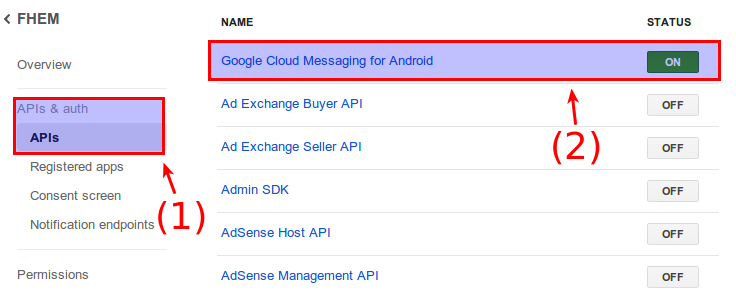
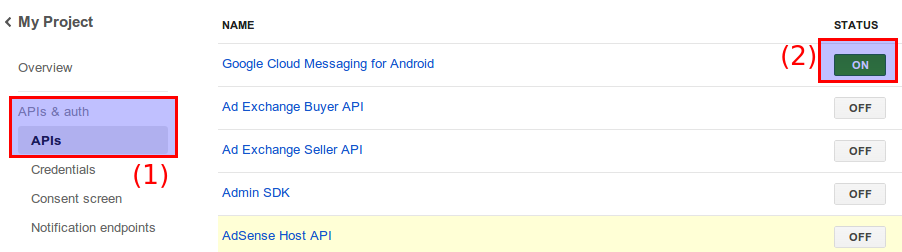
reflect new GCM api console

diff --git a/installation.html b/installation.html
@@ -62,7 +62,7 @@ weight: 2
   
   <p>Google Cloud Messaging (GCM) enables you to send push notifications to Android handsets. This enables you to send updates in nearly realtime to andFHEM (from 2.4.2 onwards).</p>
 
-  <p>Installation Steps:
+  <p><b>Installation Steps:</b>
     <ul>
       <li>Download and install the <a href="http://svn.code.sf.net/p/fhem/code/trunk/fhem/contrib/98_gcmsend.pm">98_gcmsend.pm</a> module for FHEM (copy the file to the FHEM directory, make sure that your Perl installation meets all the dependencies. FHEM will tell you if it can load the module, especially when issuing <span class="code">reload 98_gcmsend</span>. You can also copy the file from the <span class="code">contrib</span> directory. If doing so, don't forget to modify the file permissions of <span class="code">98_gcmsend.pm</span> (the user running FHEM has to be able to read the file, so change the owner using <span class="code">chown fhem 98_gcmsend.pm</span> or give all users the permission to read the file using <span class="code">chmod a+r 98_gcmsend.pm</span>) <br/>
   The module depends on two perl modules, which have to be installed to <i>fhem/lib/perl5/site_perl/5.12.2/</i> (on FritzBoxes, otherwise choose your perl directory)
@@ -76,21 +76,23 @@ weight: 2
       
       <li>Create a Google GCM Account.
         <ul>
-          <li>Go to <a href="https://code.google.com/apis/console/">https://code.google.com/apis/console/</a> and create a new API project. <br />
+          <li>Go to <a target="_blank" href="https://code.google.com/apis/console/">https://code.google.com/apis/console/</a> and create a new API project. <br />
           <a href="images/installation/gcm/01_create.png"><img src="images/installation/gcm/01_create.png" /></a>
           </li>
           <li>Enter your newly created project and enable "Google Cloud Messaging for Android" under "APIs & auth" > "Api" <br/>
           <a href="images/installation/gcm/02_api_enable.png"><img src="images/installation/gcm/02_api_enable.png" /></a>
           </li>
-          <li>Jump to the submenu "Registered Apps" and click "Register App".<br />
-            <a href="images/installation/gcm/03_register_app.png"><img src="images/installation/gcm/03_register_app.png" /></a>
+          <li>Jump to the submenu "Credentials", click "Create new key" and hit "Browser key" in the window that now pops up.<br />
+            <a href="images/installation/gcm/03_create_key.png"><img src="images/installation/gcm/03_create_key.png" /></a>
           </li>
-          <li>A new window opens to enter some information. Enter some name (doesn't matter which one) and select "Web Application" as platform. Continue with "Register".<br/>
-          <a href="images/installation/gcm/04_register_detail.png"><img src="images/installation/gcm/04_register_detail.png" /></a>
+          <li>A new window pops up to enter some URL restriction. Be careful what you enter here, as this may break your GCM messages. If you are unsure on what to enter here, leave the field empty.<br/>
+          <a href="images/installation/gcm/04_referer.png"><img src="images/installation/gcm/04_referer.png" /></a>
           </li>
-          <li>We are directed to a new page containing the API-key we wanted to obtain: <br/>
-            <a href="images/installation/gcm/05_browser_key.png"><img src="images/installation/gcm/05_browser_key.png" /></a>
+          <li>Finally the credentials page contains the information we want: the mystic API key.<br/>
+            <a href="images/installation/gcm/05_apikey.png"><img src="images/installation/gcm/05_apikey.png" /></a>
           </li>
+          <li>Another information we need is the so called "project number". This one is automatically generated by Google for each project. We can find that one within the "Overview" page: <br />
+            <a href="images/installation/gcm/06_project_number.png"><img src="images/installation/gcm/06_project_number.png" /></a>
         </ul>
        </li>
        
